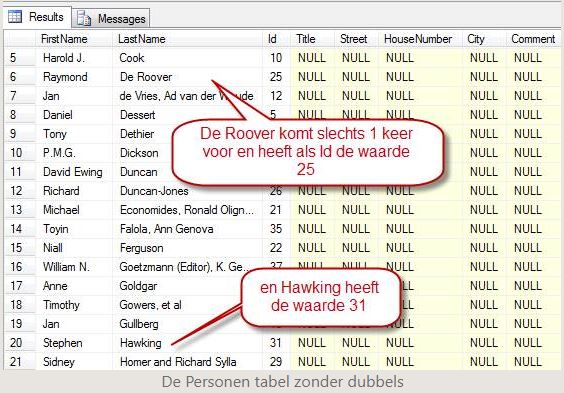
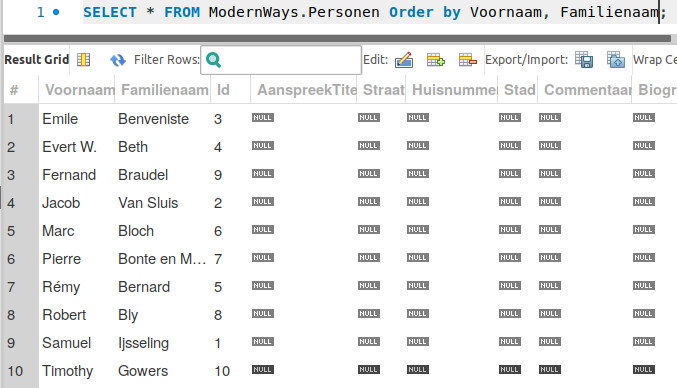
Bezig met modelopln.

diff --git a/semester-2-databanken/erd/normaliseren-in-de-praktijk.md b/semester-2-databanken/erd/normaliseren-in-de-praktijk.md
@@ -57,13 +57,13 @@ select Voornaam, Familienaam from Personen
 
 ## Overige kolommen aan de tabel Personen toevoegen
 
-We hebben nu een nieuwe tabel `Personen`. Maar met slechts twee kolommen. Met de alter instructie voegen we de andere kolommen toe, evenals de primary key en de identity eigenschap:
+We hebben nu een nieuwe tabel `Personen`. Maar met slechts twee kolommen. Met de alter instructie voegen we de andere kolommen toe, evenals de primary key:
 
 ```sql
 use ModernWays;
 
 alter table Personen add (
-   Id int auto_increment not null,
+   Id int auto_increment primary key,
    AanspreekTitel varchar(30) null,
    Straat varchar(80) null,
    Huisnummer varchar (5) null,
@@ -81,6 +81,8 @@ select * from Personen order by Familienaam, Voornaam;
 En dat geeft:
 
 ![](../../.gitbook/assets/n2.JPG)
+
+Merk op dat elke auteur één keer voorkomt en dat alle auteurs een unieke `Id` hebben.
 
 ## De tabel Boeken en Personen linken
 
